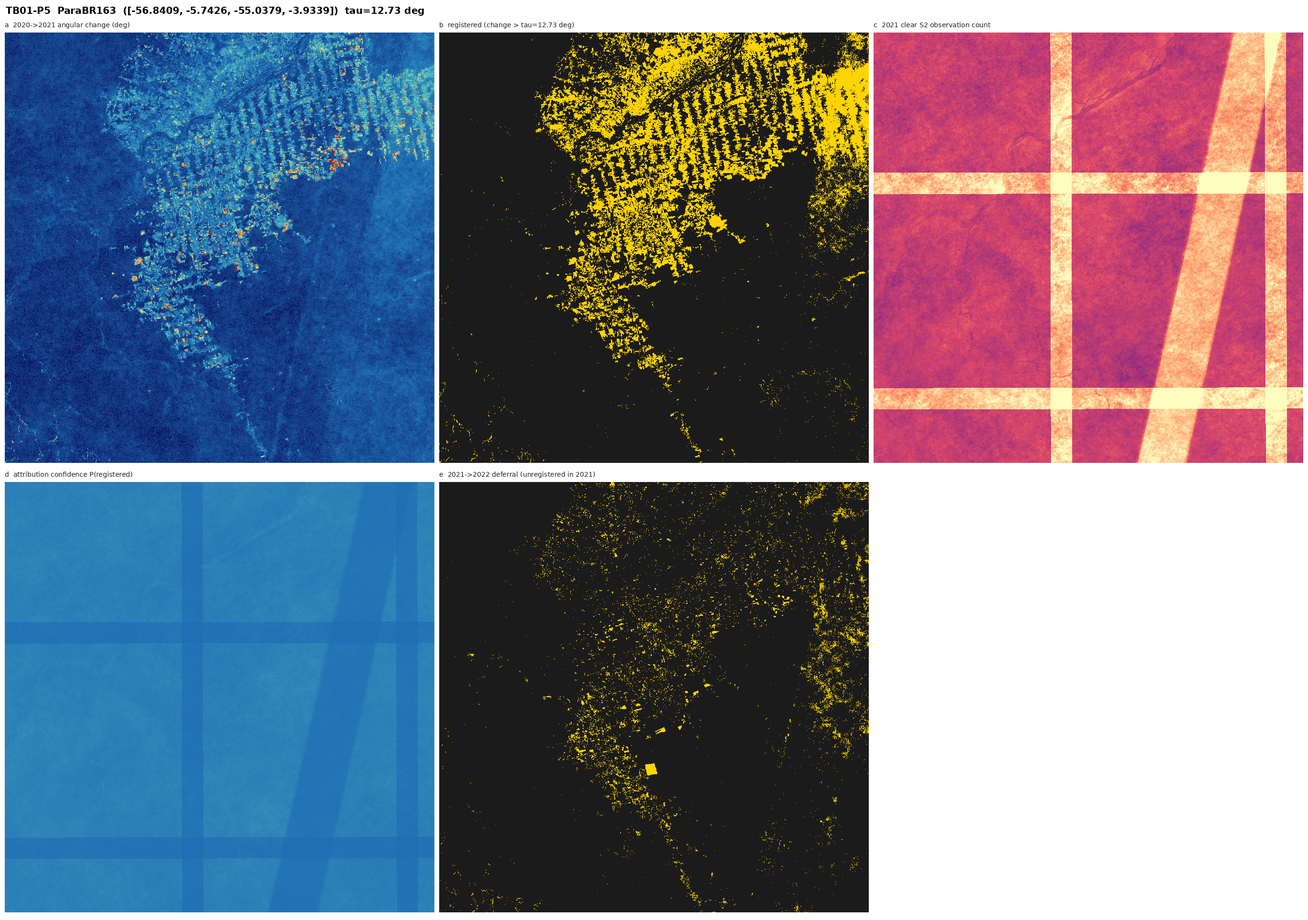
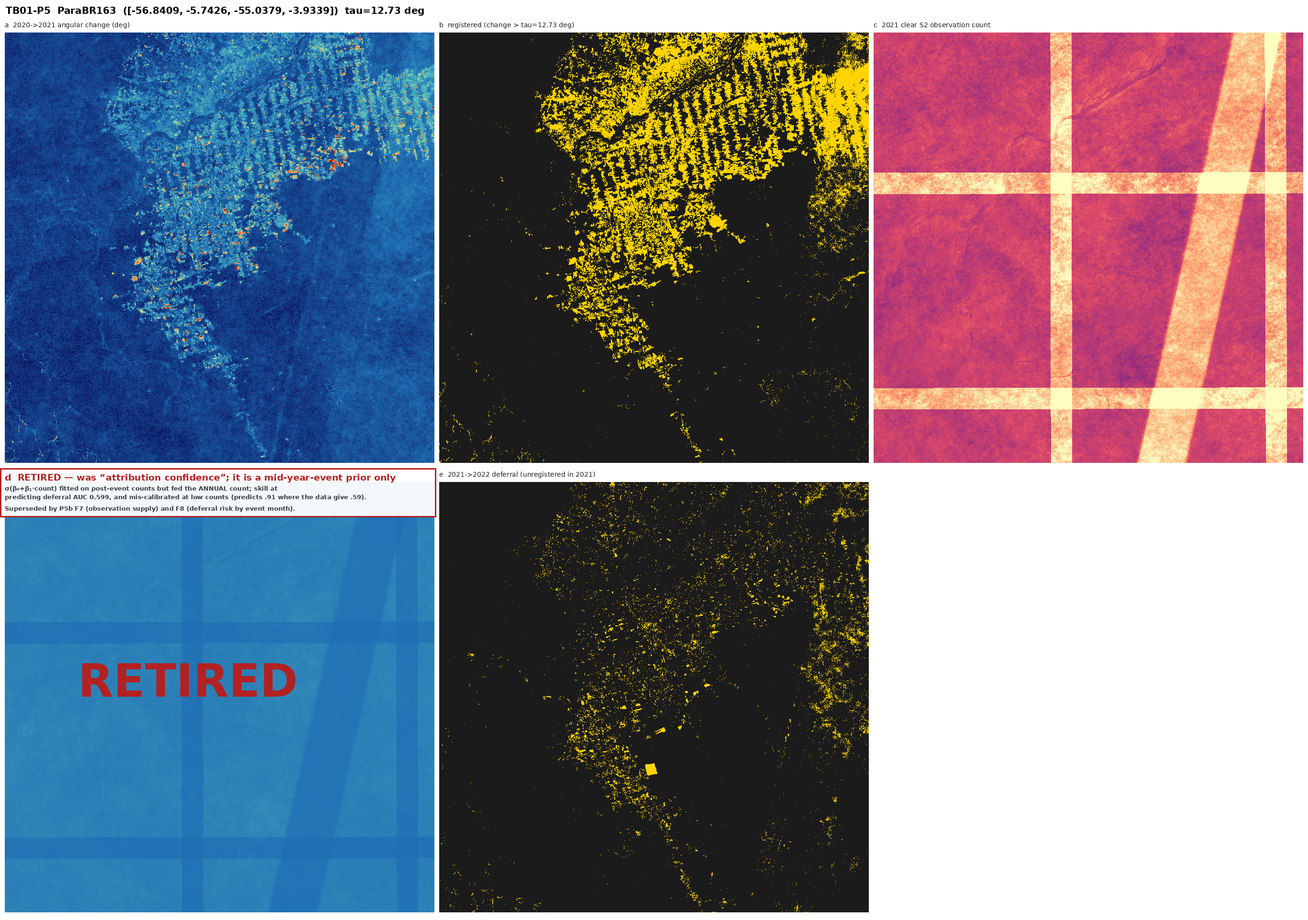
TB01-P5b item 2: retire map layer (d), add observation-supply and deferral-risk plates
Layer (d) fed sigma(b0+b1*count) - a model fitted on post-event counts - the ANNUAL
count (AUC 0.599 for deferral, P5 s3), and its raw-count link is mis-calibrated at the
low end (predicts .91 registration at one clear observation where the data give .59).
Both M_*.png plates are stamped RETIRED and the GeoTIFFs renamed.

Replacement: F7 expected clear-observation supply by calendar month (2019-2021 mean,
both regions) and F8 deferral risk by event month, using a refitted log-link
(b0=-0.1800, b1=1.2396) that tracks the empirical registration curve. Para peaks in
July (6.5) and floors in February (1.0); Roraima peaks in March (4.4) - the regions are
out of phase. December-event risk .354 / .306 against a Jan-Aug floor near .02.

Changed region(s): [[0.0, 0.499, 0.342, 0.5613], [0.0622, 0.7173, 0.2487, 0.7796]]

diff --git a/aef_explore/stage5/TB01/P5b/make_plates.py b/aef_explore/stage5/TB01/P5b/make_plates.py
@@ -3,9 +3,16 @@ supply stacks so no Earth Engine work is repeated per panel.
 
 F7  expected observation supply: mean clear Sentinel-2 observations per pixel per
     calendar month (2019-2021 mean), 2 regions x 12 months, one sequential hue.
-F8  deferral risk by event month: 1 - sigmoid(2.1413 + 0.0552 * E_m), where E_m is the
+F8  deferral risk by event month: 1 - sigmoid(b0 + b1 * ln(1 + E_m)), where E_m is the
     expected post-event clear count for an event in month m under the same proration
     rule P2 used for `clear_post`.
+
+The link is refitted here rather than reused from P5. P5's map layer (d) used
+sigmoid(2.1413 + 0.0552 * count), linear in the raw count, which is badly mis-calibrated
+where it matters: it predicts 0.91 registration at one post-event clear observation, where
+the data show 0.59. Logit-linear in ln(1 + clear_post) tracks the empirical curve to within
+a few points across the whole range. The exactly-zero bin is excluded from the fit, being a
+dating artifact rather than an observation state (item 1).
 """
 import json
 import numpy as np
@@ -15,7 +22,7 @@ matplotlib.use("Agg")
 import matplotlib.pyplot as plt
 from matplotlib.colors import LinearSegmentedColormap
 
-B0, B1 = 2.1413, 0.0552
+P2_CSV = "aef_explore/stage5/TB01/P2/P2_events.csv"
 MON = ["Jan", "Feb", "Mar", "Apr", "May", "Jun", "Jul", "Aug", "Sep", "Oct", "Nov", "Dec"]
 REG = ["ParaBR163", "Roraima_S"]
 LBL = {"ParaBR163": "Pará / BR-163", "Roraima_S": "Roraima (south)"}
@@ -25,6 +32,33 @@ INK, INK2 = "#1f2328", "#57606a"
 BLUE = LinearSegmentedColormap.from_list("blue", ["#f2f7fb", "#cfe0ef", "#8ab4d8", "#3d7ebc", "#12436d"])
 RED = LinearSegmentedColormap.from_list("red", ["#fdf4f2", "#f7d3c9", "#e79c86", "#c85f3f", "#7d2b12"])
 SERIES = {"ParaBR163": "#12436d", "Roraima_S": "#a8560c"}
+
+
+def fit_link():
+    """logit P(registered) = b0 + b1 * ln(1 + clear_post), on the 2021 dated events."""
+    import pandas as pd
+    d = pd.read_csv(P2_CSV).dropna(subset=["clear_post_radd_any"])
+    d = d[d["clear_post_radd_any"] > 0]
+    y = d["registered"].values.astype(float)
+    X = np.column_stack([np.ones(len(y)), np.log1p(d["clear_post_radd_any"].values)])
+    b = np.zeros(2)
+    for _ in range(100):
+        p = 1 / (1 + np.exp(-X @ b))
+        W = np.clip(p * (1 - p), 1e-9, None)
+        step = np.linalg.solve(X.T @ (X * W[:, None]) + 1e-9 * np.eye(2), X.T @ (y - p))
+        b = b + step
+        if np.abs(step).max() < 1e-10:
+            break
+    cal = []
+    edges = [0, 1, 2, 3, 4, 6, 9, 14, 25, 50, 1e9]
+    cp = d["clear_post_radd_any"].values
+    for a, c in zip(edges[:-1], edges[1:]):
+        m = (cp > a) & (cp <= c)
+        if m.sum() > 20:
+            cal.append(dict(bin=f"({a:g},{c:g}]", n=int(m.sum()),
+                            emp=round(float(y[m].mean()), 3),
+                            pred=round(float(1 / (1 + np.exp(-(b[0] + b[1] * np.log1p(cp[m]).mean())))), 3)))
+    return float(b[0]), float(b[1]), cal
 
 
 def load(tmp, name):
@@ -40,8 +74,8 @@ def expected(sup):
     return out
 
 
-def risk(e):
-    return 1.0 - 1.0 / (1.0 + np.exp(-(B0 + B1 * e)))
+def risk(e, b0, b1):
+    return 1.0 - 1.0 / (1.0 + np.exp(-(b0 + b1 * np.log1p(e))))
 
 
 def plate_supply(data, path):
@@ -96,7 +130,7 @@ def plate_supply(data, path):
 
 def plate_risk(data, path):
     cols = [2, 5, 8, 11]  # Mar, Jun, Sep, Dec
-    vmax = 0.20
+    vmax = 0.60
     fig = plt.figure(figsize=(11.2, 7.0))
     gs = fig.add_gridspec(3, 4, height_ratios=[1.0, 1.0, 0.9], hspace=0.16, wspace=0.06,
                           left=0.07, right=0.88, top=0.90, bottom=0.08)
@@ -143,11 +177,14 @@ def plate_risk(data, path):
 
 
 def main(tmp):
-    data, stats = {}, {}
+    b0, b1 = 0.0, 0.0
+    b0, b1, cal = fit_link()
+    print("link b0=%.4f b1=%.4f" % (b0, b1))
+    data, stats = {}, {"_link": dict(b0=b0, b1=b1, calibration=cal)}
     for name in REG:
         sup = load(tmp, name)
         e = expected(sup)
-        rk = risk(e)
+        rk = risk(e, b0, b1)
         data[name] = dict(sup=sup, e=e, risk=rk)
         stats[name] = dict(
             supply_mean=[round(float(x), 3) for x in np.nanmean(sup, axis=(0, 1))],
@@ -160,7 +197,7 @@ def main(tmp):
     plate_supply(data, f"{OUT}/F7_obs_supply.png")
     plate_risk(data, f"{OUT}/F8_deferral_risk.png")
     json.dump(stats, open("aef_explore/stage5/TB01/P5b/obs_supply_stats.json", "w"), indent=1)
-    for k, v in stats.items():
+    for k, v in list(stats.items())[1:]:
         print(k, "annual", v["annual_mean"], "risk Jan/Dec",
               v["risk_mean"][0], v["risk_mean"][11])
 

diff --git a/aef_explore/stage5/TB01/P5b/relabel_layer_d.py b/aef_explore/stage5/TB01/P5b/relabel_layer_d.py
@@ -1,0 +1,49 @@
+"""P5b item 2, step 4 -- stamp the retirement of P5 map layer (d) onto the committed plates.
+
+Layer (d) rendered sigma(2.1413 + 0.0552 * annual clear count) as "attribution confidence".
+Two things are wrong with it and both are now on record: the model is fitted on `clear_post`
+(a post-event count) but the map feeds it an annual count, whose measured skill at predicting
+deferral is AUC 0.599 (P5 section 3); and the raw-count link is mis-calibrated at the low end,
+predicting 0.91 registration where one post-event clear observation actually yields 0.59.
+The plates are stamped rather than re-rendered because the P5 map script was not retained;
+the replacement layers are P5b figures F7 and F8.
+"""
+from PIL import Image, ImageDraw, ImageFont
+
+PLATES = {"aef_explore/stage5/TB01/P5/figures/M_ParaBR163.png": 985,
+          "aef_explore/stage5/TB01/P5/figures/M_Roraima_S.png": 895}
+W = 911
+MSG1 = "d  RETIRED — was “attribution confidence”; it is a mid-year-event prior only"
+MSG2 = ("σ(β₀+β₁·count) fitted on post-event counts but fed the ANNUAL count; skill at predicting "
+        "deferral AUC 0.599, and mis-calibrated at low counts (predicts .91 where the data give .59).")
+MSG3 = "Superseded by P5b F7 (observation supply) and F8 (deferral risk by event month)."
+
+
+def font(sz):
+    for p in ("/usr/share/fonts/dejavu/DejaVuSans-Bold.ttf",
+              "/usr/share/fonts/truetype/dejavu/DejaVuSans-Bold.ttf"):
+        try:
+            return ImageFont.truetype(p, sz)
+        except OSError:
+            continue
+    return ImageFont.load_default()
+
+
+def main():
+    for path, y0 in PLATES.items():
+        im = Image.open(path).convert("RGB")
+        d = ImageDraw.Draw(im, "RGBA")
+        d.rectangle([0, y0 - 6, W, y0 + 96], fill=(255, 255, 255, 240))
+        d.rectangle([0, y0 - 6, W, y0 + 96], outline=(178, 34, 34), width=3)
+        d.text((10, y0 + 2), MSG1, fill=(178, 34, 34), font=font(19))
+        d.text((10, y0 + 28), MSG2[:78], fill=(60, 60, 60), font=font(13))
+        d.text((10, y0 + 46), MSG2[78:], fill=(60, 60, 60), font=font(13))
+        d.text((10, y0 + 70), MSG3, fill=(60, 60, 60), font=font(13))
+        d.text((int(W * 0.18), y0 + int(W * 0.42)), "RETIRED", fill=(178, 34, 34, 190),
+               font=font(96))
+        im.save(path)
+        print("stamped", path)
+
+
+if __name__ == "__main__":
+    main()

diff --git a/aef_explore/stage5/TB01/P5b/make_products.py b/aef_explore/stage5/TB01/P5b/make_products.py
@@ -1,0 +1,40 @@
+"""P5b item 2, step 3 -- product files for `data/products/` (git-ignored).
+
+* `<region>_deferral_risk_x1000_200m.tif` -- 12-band Int16 deferral risk (x1000), one band
+  per event month, derived locally from the 200 m supply stack so no Earth Engine work is
+  repeated.
+* the retired P5 layer (d) is renamed, not deleted, to
+  `<region>_RETIRED_midyear_prior_pconf_60m.tif`, so nothing silently keeps citing it as an
+  attribution-confidence layer.
+"""
+import json, os
+import numpy as np, rasterio
+
+P = "data/products"
+REG = ["ParaBR163", "Roraima_S"]
+
+
+def main():
+    st = json.load(open("aef_explore/stage5/TB01/P5b/obs_supply_stats.json"))["_link"]
+    b0, b1 = st["b0"], st["b1"]
+    for name in REG:
+        src = rasterio.open(f"{P}/{name}_obs_supply_x10_200m.tif")
+        sup = src.read().astype(float) / 10.0            # (12, h, w)
+        e = np.stack([0.5 * sup[m] + sup[m + 1:].sum(axis=0) for m in range(12)])
+        risk = 1.0 - 1.0 / (1.0 + np.exp(-(b0 + b1 * np.log1p(e))))
+        prof = src.profile.copy()
+        prof.update(dtype="int16", count=12, nodata=-1)
+        out = f"{P}/{name}_deferral_risk_x1000_200m.tif"
+        with rasterio.open(out, "w", **prof) as dst:
+            dst.write(np.round(risk * 1000).astype("int16"))
+            dst.descriptions = tuple(f"event_month_{m:02d}" for m in range(1, 13))
+        print(out, os.path.getsize(out) // 1024, "kB")
+        old = f"{P}/{name}_pconf.tif"
+        new = f"{P}/{name}_RETIRED_midyear_prior_pconf_60m.tif"
+        if os.path.exists(old):
+            os.rename(old, new)
+            print("renamed", old, "->", new)
+
+
+if __name__ == "__main__":
+    main()

diff --git a/aef_explore/stage5/TB01/P5b/ITEM2_obs_supply.md b/aef_explore/stage5/TB01/P5b/ITEM2_obs_supply.md
@@ -1,0 +1,83 @@
+# P5b item 2 — map layer (d) replaced by observation supply and deferral risk
+
+> **Layer (d) is retired.** P5's `σ(2.1413 + 0.0552 · count)` "attribution confidence" plate is
+> stamped RETIRED on both `M_*.png` and its GeoTIFFs renamed
+> `*_RETIRED_midyear_prior_pconf_60m.tif`. In its place: **F7 expected observation supply by
+> calendar month** and **F8 deferral risk by event month**, both region-wide, both derived from
+> the same monthly Sentinel-2 record the paper's covariate comes from.
+
+Scripts: `obs_supply.py` (Earth Engine), `make_plates.py` (figures + link refit),
+`make_products.py` (GeoTIFFs, rename), `relabel_layer_d.py` (plate stamp).
+Numbers in `obs_supply_stats.json`.
+
+## Why (d) had to go — two defects, both measured
+
+1. **Wrong input.** The link was fitted on `clear_post`, a *post-event* count, and the map fed
+   it the *annual* count. P5 §3 measured what the annual count is worth for the question the
+   layer claims to answer: **AUC 0.599** for predicting deferral.
+2. **Mis-calibrated where it matters.** Logit-linear in the raw count predicts **0.907**
+   registration at one post-event clear observation; the data give **0.585** (n = 130). The
+   layer's near-uniform blue was not confidence, it was a saturated link function.
+
+Refitting the same one-covariate model as logit-linear in `ln(1 + clear_post)`, on the 38,158
+dated 2021 events with `clear_post > 0` (the exactly-zero bin is excluded — item 1 shows it is
+a dating artifact, not an observation state), gives **β₀ = −0.1800, β₁ = 1.2396** and tracks
+the empirical curve:
+
+| `clear_post` | (0,1] | (1,2] | (2,3] | (3,4] | (4,6] | (6,9] | (9,14] | (14,25] | (25,50] | > 50 |
+|---|---|---|---|---|---|---|---|---|---|---|
+| n | 130 | 215 | 303 | 415 | 1,002 | 1,665 | 4,036 | 13,317 | 13,119 | 3,928 |
+| empirical | .585 | .605 | .723 | .793 | .872 | .922 | .970 | .980 | .982 | .977 |
+| **fitted (log link)** | .604 | .733 | .799 | .845 | .886 | .923 | .951 | .972 | .985 | .994 |
+| old raw-count link | .907 | .911 | .915 | .919 | .924 | .933 | .945 | .963 | .981 | .997 |
+
+## F7 — expected observation supply (`figures/F7_obs_supply.png`)
+
+Mean clear Sentinel-2 observations per pixel per calendar month, averaged over 2019–2021
+(clear = SCL ∉ {3, 8, 9, 10, 11}), 24 panels on one sequential ramp plus the region-mean curves.
+
+| region-mean clear obs | Jan | Feb | Mar | Apr | May | Jun | Jul | Aug | Sep | Oct | Nov | Dec | annual |
+|---|---|---|---|---|---|---|---|---|---|---|---|---|---|
+| Pará / BR-163 | 2.03 | **1.04** | 1.78 | 1.48 | 2.95 | 5.93 | **6.48** | 6.24 | 4.21 | 3.22 | 1.87 | 1.97 | 39.2 |
+| Roraima (south) | 2.63 | 2.98 | **4.41** | 1.77 | **1.33** | 1.32 | 2.56 | 2.65 | 3.63 | 3.18 | 2.93 | 2.70 | 32.1 |
+
+**The two regions are out of phase.** Pará's supply is a single dry-season peak (6.5× its
+February floor); Roraima's peaks in March and bottoms in May–June. A single "wet season"
+correction would be wrong for one of them. Within a region the supply is also *banded* —
+Sentinel-2 orbit overlaps are directly visible as stripes carrying roughly double the
+single-swath count (p90/p10 ≈ 3× in every month), so two clearings a few kilometres apart can
+face very different observation odds in the same month.
+
+## F8 — deferral risk by event month (`figures/F8_deferral_risk.png`)
+
+For an event in month *m*, `E_m = 0.5·s_m + Σ_{k>m} s_k` (P2's proration rule applied to the
+supply climatology), then risk `= 1 − σ(β₀ + β₁·ln(1 + E_m))`.
+
+| mean deferral risk | Jan | Mar | Jun | Sep | Oct | Nov | Dec |
+|---|---|---|---|---|---|---|---|
+| Pará / BR-163 | .015 | .017 | .022 | .080 | .120 | .203 | **.354** |
+| Roraima (south) | .018 | .025 | .034 | .073 | .091 | .148 | **.306** |
+
+Risk is flat and small from January to August and then rises by an order of magnitude in the
+last quarter — the map form of the paper's claim that a clearing's chance of appearing in the
+right annual embedding is set by how much of the observing year is left. Pará's Jan–Aug floor
+is lower than Roraima's despite a *later* peak, because what matters is the integral of what
+remains, not the month's own supply. Within December, the striping is fully expressed: the
+orbit-overlap bands sit near .25 while single-swath ground sits near .40.
+
+**Read F8 as a prior, not a per-pixel probability.** It conditions on nothing but pixel and
+month — not on patch size, not on the state τ, not on SAR — and it is calibrated on Brazilian
+DETER polygons in 2021 only.
+
+## Products (git-ignored `data/products/`)
+
+| file | content |
+|---|---|
+| `<region>_obs_supply_x10_200m.tif` | 12-band Int16, mean clear obs × 10 per calendar month |
+| `<region>_deferral_risk_x1000_200m.tif` | 12-band Int16, deferral risk × 1000 per event month |
+| `<region>_RETIRED_midyear_prior_pconf_60m.tif` | the retired layer (d), renamed, kept for provenance |
+
+## Compute
+One Earth Engine pass per region (12 monthly means × 3 years, reduceRegion statistics, one NPY
+and one GeoTIFF download); every panel, the risk stack and the link refit are computed locally
+from those arrays, so no per-panel EE work was repeated.
